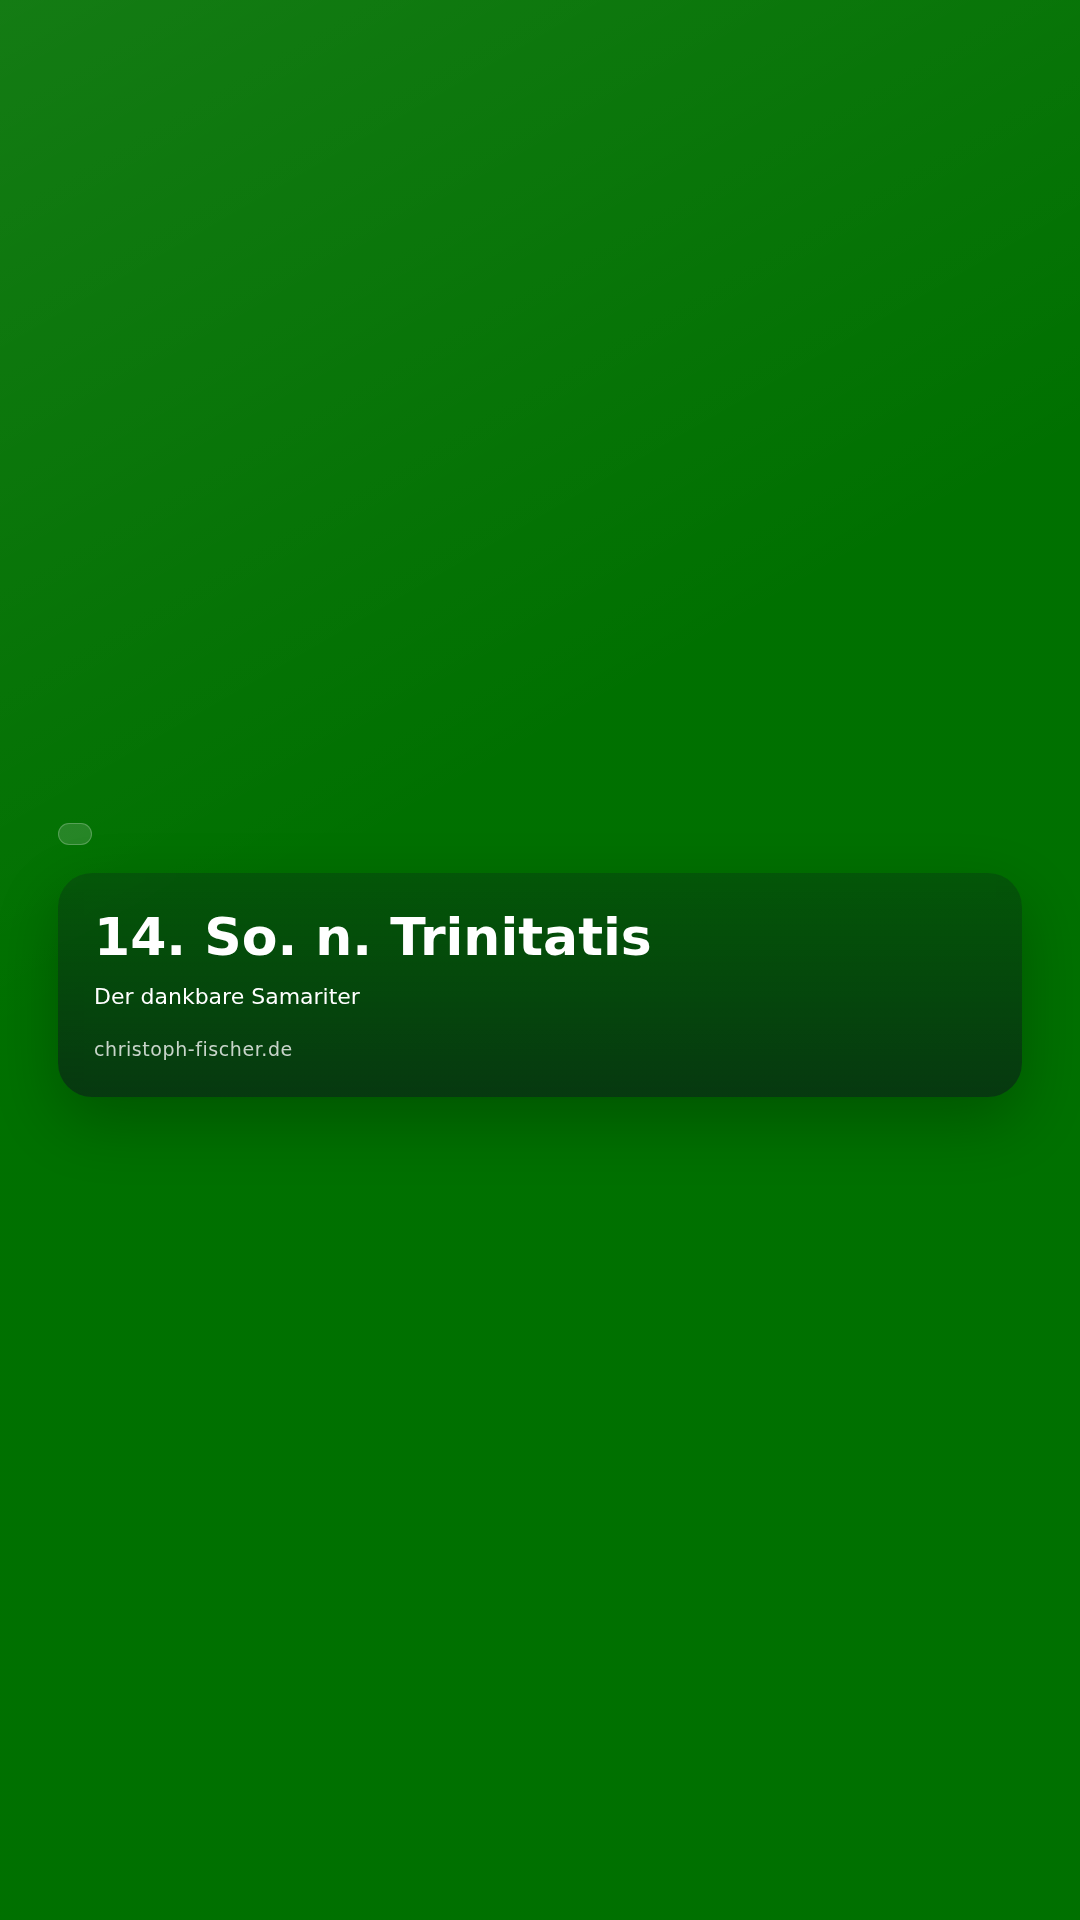
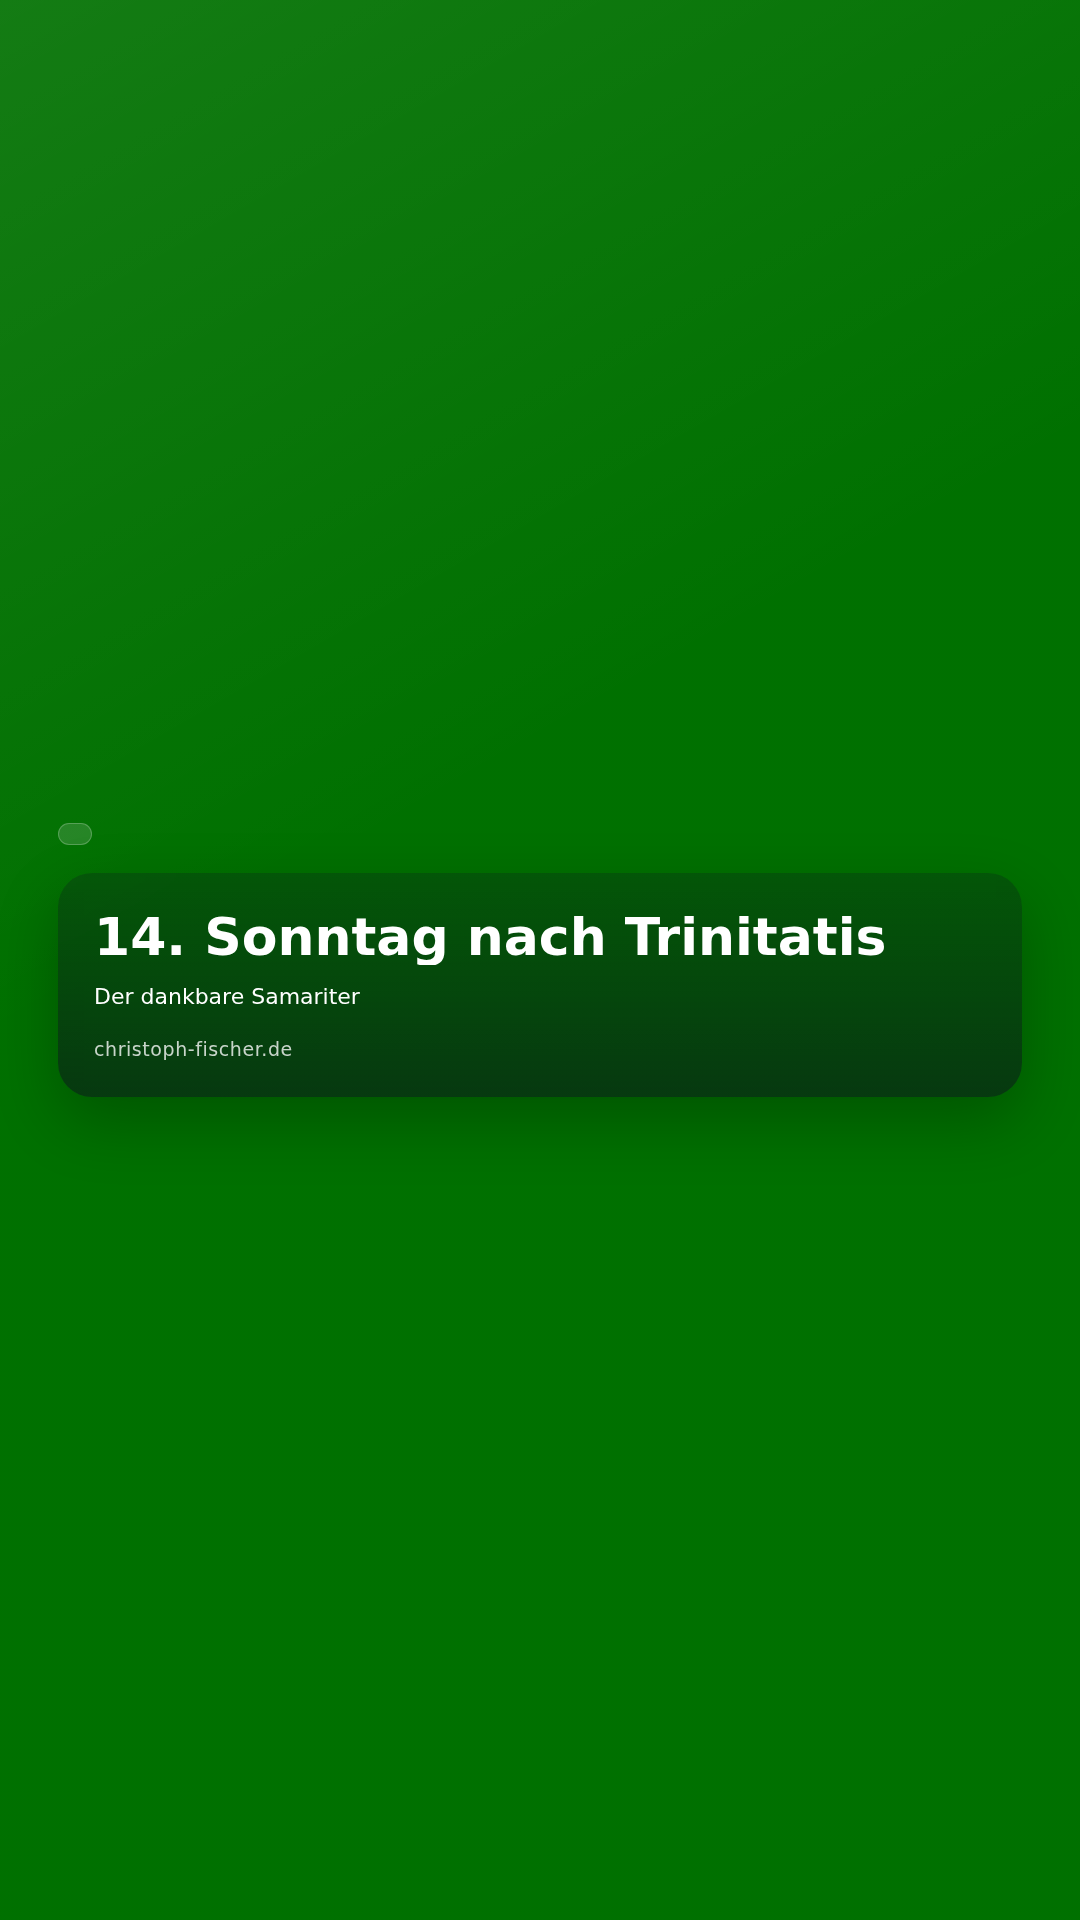
Update content: GET /files/2026-08-16/kirchenjahr-2026-08-16-11tr/render-square-01.html

Changed region(s): [[0.2444, 0.4688, 0.825, 0.5]]

diff --git a/2026-09-06/kirchenjahr-2026-09-06-14tr/render-instagram-story-01.html b/2026-09-06/kirchenjahr-2026-09-06-14tr/render-instagram-story-01.html
@@ -125,10 +125,21 @@
 
       .template-kirchenjahr .sender-mark {
         position: absolute;
+        left: 56px;
         right: 56px;
-        bottom: 42px;
+        bottom: 36px;
         margin: 0;
         color: var(--text-primary);
+        text-align: center;
+        font-size: 26px;
+      }
+
+      .template-kirchenjahr .title {
+        font-size: 68px;
+      }
+
+      .format-story .template-kirchenjahr .title {
+        font-size: 82px;
       }
 
       .template-kirchenjahr .title-note {
@@ -139,7 +150,7 @@
       }
 
       .format-story .template-kirchenjahr .title-note {
-        font-size: 42px;
+        font-size: 44px;
       }
 
       .panel-meta {
@@ -345,7 +356,7 @@
           
         </div>
         <section class="panel kirchenjahr-panel">
-  <h1 class="title" data-overflow-id="title">14. So. n. Trinitatis</h1>
+  <h1 class="title" data-overflow-id="title">14. Sonntag nach Trinitatis</h1>
   <p class="title-note" data-overflow-id="title-note">Der dankbare Samariter</p>
   <p class="sender-mark">christoph-fischer.de</p>
 </section>

diff --git a/2026-09-06/kirchenjahr-2026-09-06-14tr/render-square-01.html b/2026-09-06/kirchenjahr-2026-09-06-14tr/render-square-01.html
@@ -125,10 +125,21 @@
 
       .template-kirchenjahr .sender-mark {
         position: absolute;
+        left: 56px;
         right: 56px;
-        bottom: 42px;
+        bottom: 36px;
         margin: 0;
         color: var(--text-primary);
+        text-align: center;
+        font-size: 26px;
+      }
+
+      .template-kirchenjahr .title {
+        font-size: 68px;
+      }
+
+      .format-story .template-kirchenjahr .title {
+        font-size: 82px;
       }
 
       .template-kirchenjahr .title-note {
@@ -139,7 +150,7 @@
       }
 
       .format-story .template-kirchenjahr .title-note {
-        font-size: 42px;
+        font-size: 44px;
       }
 
       .panel-meta {
@@ -345,7 +356,7 @@
           
         </div>
         <section class="panel kirchenjahr-panel">
-  <h1 class="title" data-overflow-id="title">14. So. n. Trinitatis</h1>
+  <h1 class="title" data-overflow-id="title">14. Sonntag nach Trinitatis</h1>
   <p class="title-note" data-overflow-id="title-note">Der dankbare Samariter</p>
   <p class="sender-mark">christoph-fischer.de</p>
 </section>

diff --git a/2026-09-27/kirchenjahr-2026-09-27-17tr/render-instagram-story-01.html b/2026-09-27/kirchenjahr-2026-09-27-17tr/render-instagram-story-01.html
@@ -125,10 +125,21 @@
 
       .template-kirchenjahr .sender-mark {
         position: absolute;
+        left: 56px;
         right: 56px;
-        bottom: 42px;
+        bottom: 36px;
         margin: 0;
         color: var(--text-primary);
+        text-align: center;
+        font-size: 26px;
+      }
+
+      .template-kirchenjahr .title {
+        font-size: 68px;
+      }
+
+      .format-story .template-kirchenjahr .title {
+        font-size: 82px;
       }
 
       .template-kirchenjahr .title-note {
@@ -139,7 +150,7 @@
       }
 
       .format-story .template-kirchenjahr .title-note {
-        font-size: 42px;
+        font-size: 44px;
       }
 
       .panel-meta {
@@ -345,7 +356,7 @@
           
         </div>
         <section class="panel kirchenjahr-panel">
-  <h1 class="title" data-overflow-id="title">17. So. n. Trinitatis</h1>
+  <h1 class="title" data-overflow-id="title">17. Sonntag nach Trinitatis</h1>
   <p class="title-note" data-overflow-id="title-note">Sieghafter Glaube</p>
   <p class="sender-mark">christoph-fischer.de</p>
 </section>

diff --git a/2026-09-27/kirchenjahr-2026-09-27-17tr/render-square-01.html b/2026-09-27/kirchenjahr-2026-09-27-17tr/render-square-01.html
@@ -125,10 +125,21 @@
 
       .template-kirchenjahr .sender-mark {
         position: absolute;
+        left: 56px;
         right: 56px;
-        bottom: 42px;
+        bottom: 36px;
         margin: 0;
         color: var(--text-primary);
+        text-align: center;
+        font-size: 26px;
+      }
+
+      .template-kirchenjahr .title {
+        font-size: 68px;
+      }
+
+      .format-story .template-kirchenjahr .title {
+        font-size: 82px;
       }
 
       .template-kirchenjahr .title-note {
@@ -139,7 +150,7 @@
       }
 
       .format-story .template-kirchenjahr .title-note {
-        font-size: 42px;
+        font-size: 44px;
       }
 
       .panel-meta {
@@ -345,7 +356,7 @@
           
         </div>
         <section class="panel kirchenjahr-panel">
-  <h1 class="title" data-overflow-id="title">17. So. n. Trinitatis</h1>
+  <h1 class="title" data-overflow-id="title">17. Sonntag nach Trinitatis</h1>
   <p class="title-note" data-overflow-id="title-note">Sieghafter Glaube</p>
   <p class="sender-mark">christoph-fischer.de</p>
 </section>

diff --git a/2026-09-20/kirchenjahr-2026-09-20-16tr/render-instagram-story-01.html b/2026-09-20/kirchenjahr-2026-09-20-16tr/render-instagram-story-01.html
@@ -125,10 +125,21 @@
 
       .template-kirchenjahr .sender-mark {
         position: absolute;
+        left: 56px;
         right: 56px;
-        bottom: 42px;
+        bottom: 36px;
         margin: 0;
         color: var(--text-primary);
+        text-align: center;
+        font-size: 26px;
+      }
+
+      .template-kirchenjahr .title {
+        font-size: 68px;
+      }
+
+      .format-story .template-kirchenjahr .title {
+        font-size: 82px;
       }
 
       .template-kirchenjahr .title-note {
@@ -139,7 +150,7 @@
       }
 
       .format-story .template-kirchenjahr .title-note {
-        font-size: 42px;
+        font-size: 44px;
       }
 
       .panel-meta {
@@ -345,7 +356,7 @@
           
         </div>
         <section class="panel kirchenjahr-panel">
-  <h1 class="title" data-overflow-id="title">16. So. n. Trinitatis</h1>
+  <h1 class="title" data-overflow-id="title">16. Sonntag nach Trinitatis</h1>
   <p class="title-note" data-overflow-id="title-note">Der starke Trost</p>
   <p class="sender-mark">christoph-fischer.de</p>
 </section>

diff --git a/2026-09-20/kirchenjahr-2026-09-20-16tr/render-square-01.html b/2026-09-20/kirchenjahr-2026-09-20-16tr/render-square-01.html
@@ -125,10 +125,21 @@
 
       .template-kirchenjahr .sender-mark {
         position: absolute;
+        left: 56px;
         right: 56px;
-        bottom: 42px;
+        bottom: 36px;
         margin: 0;
         color: var(--text-primary);
+        text-align: center;
+        font-size: 26px;
+      }
+
+      .template-kirchenjahr .title {
+        font-size: 68px;
+      }
+
+      .format-story .template-kirchenjahr .title {
+        font-size: 82px;
       }
 
       .template-kirchenjahr .title-note {
@@ -139,7 +150,7 @@
       }
 
       .format-story .template-kirchenjahr .title-note {
-        font-size: 42px;
+        font-size: 44px;
       }
 
       .panel-meta {
@@ -345,7 +356,7 @@
           
         </div>
         <section class="panel kirchenjahr-panel">
-  <h1 class="title" data-overflow-id="title">16. So. n. Trinitatis</h1>
+  <h1 class="title" data-overflow-id="title">16. Sonntag nach Trinitatis</h1>
   <p class="title-note" data-overflow-id="title-note">Der starke Trost</p>
   <p class="sender-mark">christoph-fischer.de</p>
 </section>

diff --git a/2026-09-13/kirchenjahr-2026-09-13-15tr/render-instagram-story-01.html b/2026-09-13/kirchenjahr-2026-09-13-15tr/render-instagram-story-01.html
@@ -125,10 +125,21 @@
 
       .template-kirchenjahr .sender-mark {
         position: absolute;
+        left: 56px;
         right: 56px;
-        bottom: 42px;
+        bottom: 36px;
         margin: 0;
         color: var(--text-primary);
+        text-align: center;
+        font-size: 26px;
+      }
+
+      .template-kirchenjahr .title {
+        font-size: 68px;
+      }
+
+      .format-story .template-kirchenjahr .title {
+        font-size: 82px;
       }
 
       .template-kirchenjahr .title-note {
@@ -139,7 +150,7 @@
       }
 
       .format-story .template-kirchenjahr .title-note {
-        font-size: 42px;
+        font-size: 44px;
       }
 
       .panel-meta {
@@ -345,7 +356,7 @@
           
         </div>
         <section class="panel kirchenjahr-panel">
-  <h1 class="title" data-overflow-id="title">15. So. n. Trinitatis</h1>
+  <h1 class="title" data-overflow-id="title">15. Sonntag nach Trinitatis</h1>
   <p class="title-note" data-overflow-id="title-note">Irdische Güter</p>
   <p class="sender-mark">christoph-fischer.de</p>
 </section>

diff --git a/2026-09-13/kirchenjahr-2026-09-13-15tr/render-square-01.html b/2026-09-13/kirchenjahr-2026-09-13-15tr/render-square-01.html
@@ -125,10 +125,21 @@
 
       .template-kirchenjahr .sender-mark {
         position: absolute;
+        left: 56px;
         right: 56px;
-        bottom: 42px;
+        bottom: 36px;
         margin: 0;
         color: var(--text-primary);
+        text-align: center;
+        font-size: 26px;
+      }
+
+      .template-kirchenjahr .title {
+        font-size: 68px;
+      }
+
+      .format-story .template-kirchenjahr .title {
+        font-size: 82px;
       }
 
       .template-kirchenjahr .title-note {
@@ -139,7 +150,7 @@
       }
 
       .format-story .template-kirchenjahr .title-note {
-        font-size: 42px;
+        font-size: 44px;
       }
 
       .panel-meta {
@@ -345,7 +356,7 @@
           
         </div>
         <section class="panel kirchenjahr-panel">
-  <h1 class="title" data-overflow-id="title">15. So. n. Trinitatis</h1>
+  <h1 class="title" data-overflow-id="title">15. Sonntag nach Trinitatis</h1>
   <p class="title-note" data-overflow-id="title-note">Irdische Güter</p>
   <p class="sender-mark">christoph-fischer.de</p>
 </section>
